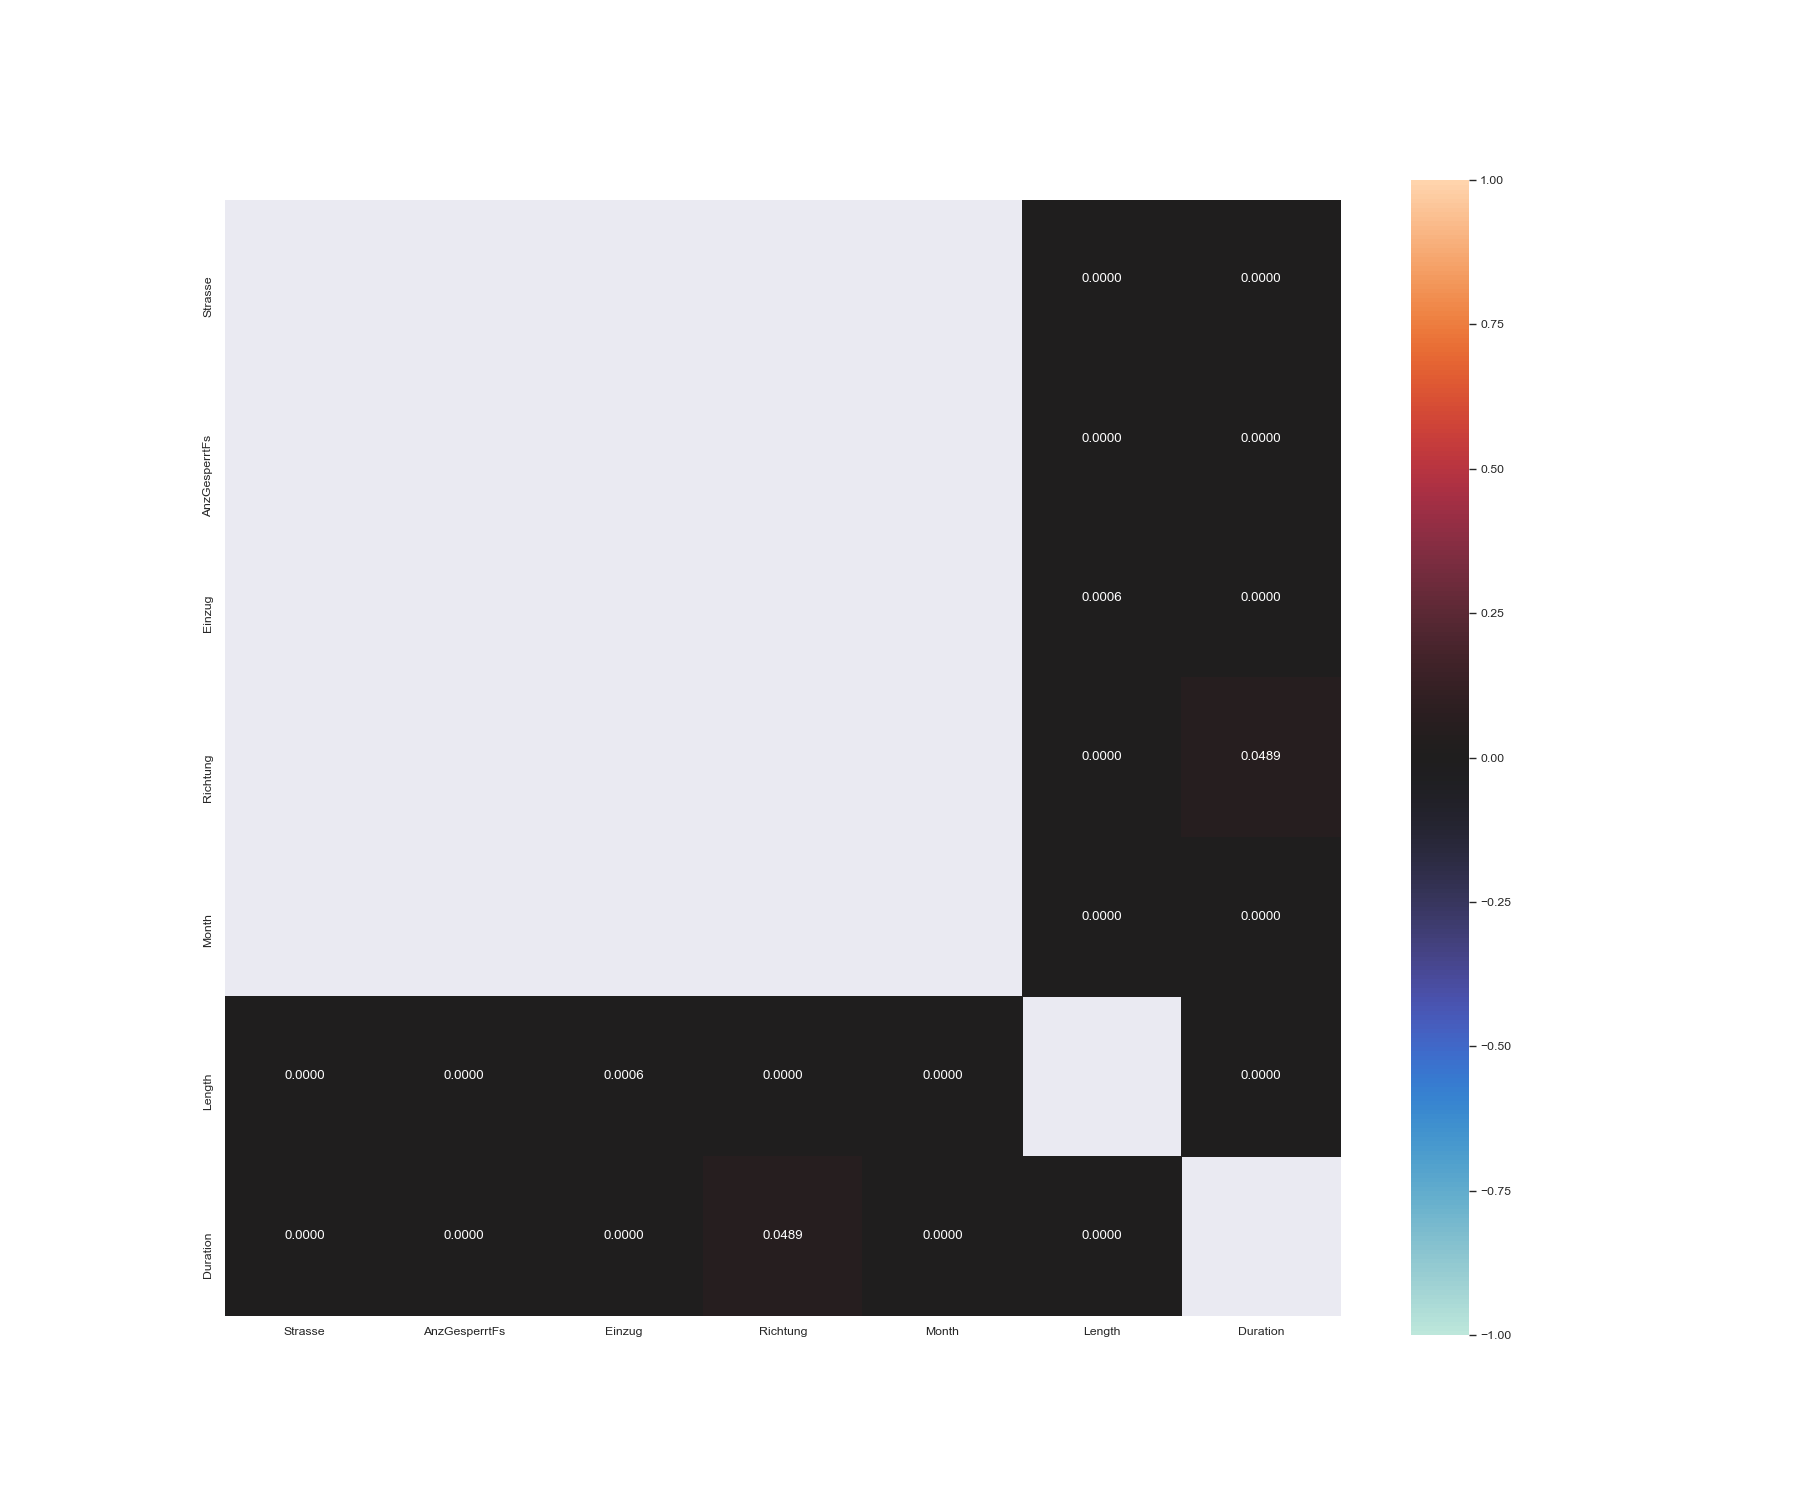
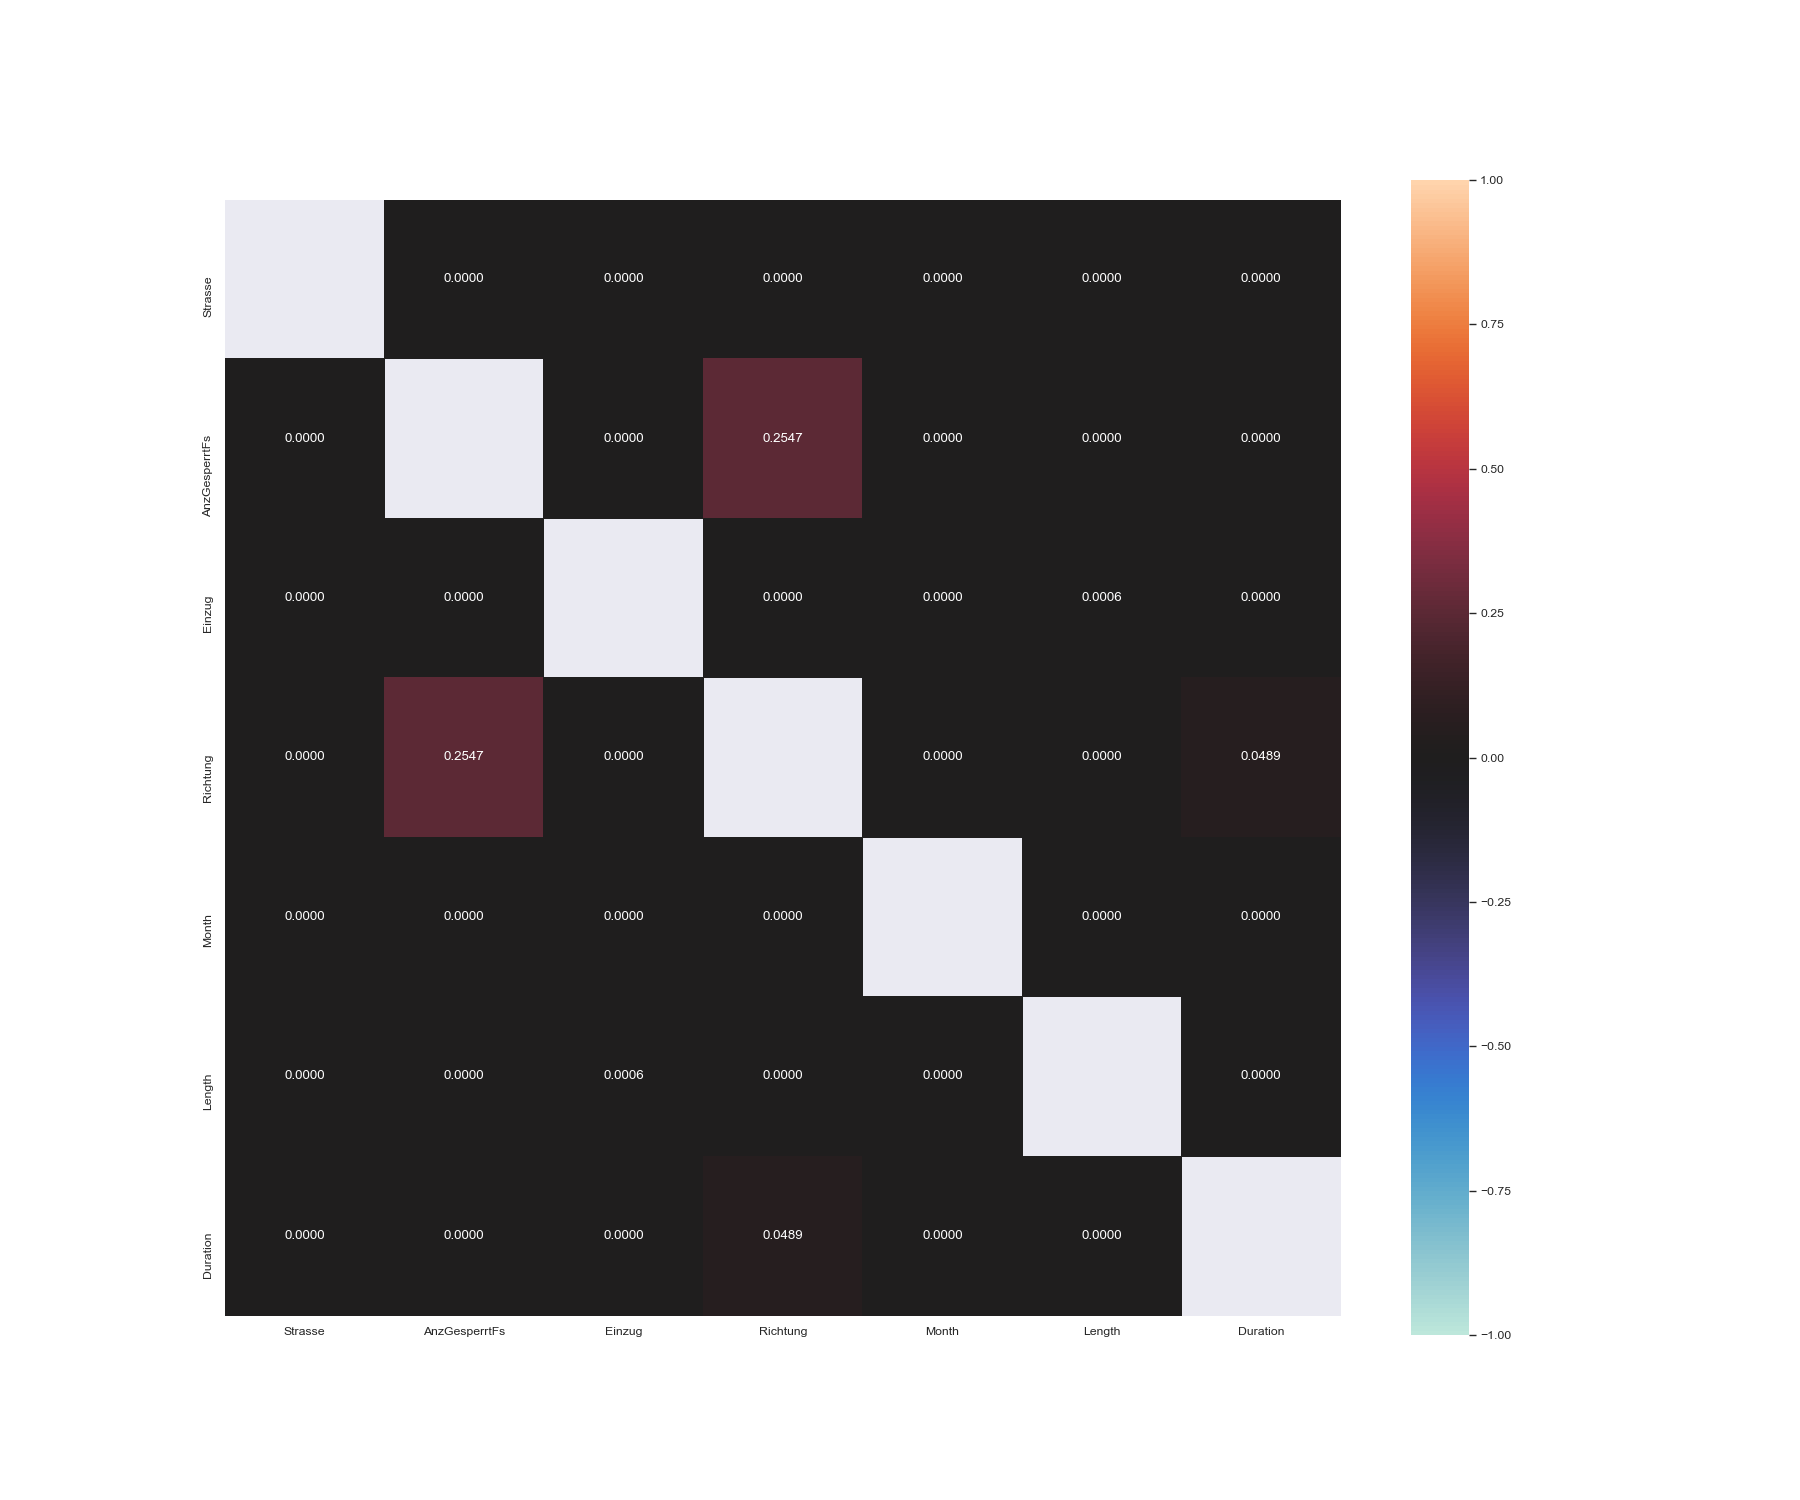
arbis now ith sognofocancy

Changed region(s): [[0.1244, 0.1227, 0.5911, 0.6747]]

diff --git a/CorrAnalysis/data/ArbIS/dataset/latex/arbis_dataset_sign_cramers.tex b/CorrAnalysis/data/ArbIS/dataset/latex/arbis_dataset_sign_cramers.tex
@@ -2,12 +2,12 @@
 \toprule
 {} &  Strasse &  AnzGesperrtFs &  Einzug &  Richtung &  Month &  Length &  Duration \\
 \midrule
-Strasse       &      NaN &            NaN &     NaN &       NaN &    NaN &  0.0000 &    0.0000 \\
-AnzGesperrtFs &      NaN &            NaN &     NaN &       NaN &    NaN &  0.0000 &    0.0000 \\
-Einzug        &      NaN &            NaN &     NaN &       NaN &    NaN &  0.0006 &    0.0000 \\
-Richtung      &      NaN &            NaN &     NaN &       NaN &    NaN &  0.0000 &    0.0489 \\
-Month         &      NaN &            NaN &     NaN &       NaN &    NaN &  0.0000 &    0.0000 \\
-Length        &      0.0 &            0.0 &  0.0006 &    0.0000 &    0.0 &     NaN &    0.0000 \\
-Duration      &      0.0 &            0.0 &  0.0000 &    0.0489 &    0.0 &  0.0000 &       NaN \\
+Strasse       &      NaN &         0.0000 &  0.0000 &    0.0000 &    0.0 &  0.0000 &    0.0000 \\
+AnzGesperrtFs &      0.0 &            NaN &  0.0000 &    0.2547 &    0.0 &  0.0000 &    0.0000 \\
+Einzug        &      0.0 &         0.0000 &     NaN &    0.0000 &    0.0 &  0.0006 &    0.0000 \\
+Richtung      &      0.0 &         0.2547 &  0.0000 &       NaN &    0.0 &  0.0000 &    0.0489 \\
+Month         &      0.0 &         0.0000 &  0.0000 &    0.0000 &    NaN &  0.0000 &    0.0000 \\
+Length        &      0.0 &         0.0000 &  0.0006 &    0.0000 &    0.0 &     NaN &    0.0000 \\
+Duration      &      0.0 &         0.0000 &  0.0000 &    0.0489 &    0.0 &  0.0000 &       NaN \\
 \bottomrule
 \end{tabular}

diff --git a/CorrAnalysis/data/ArbIS/dataset/latex/arbis_dataset_sign_theils.tex b/CorrAnalysis/data/ArbIS/dataset/latex/arbis_dataset_sign_theils.tex
@@ -2,12 +2,12 @@
 \toprule
 {} &  Strasse &  AnzGesperrtFs &  Einzug &  Richtung &  Month &  Length &  Duration \\
 \midrule
-Strasse       &      NaN &            NaN &     NaN &       NaN &    NaN &  0.0000 &    0.0000 \\
-AnzGesperrtFs &      NaN &            NaN &     NaN &       NaN &    NaN &  0.0000 &    0.0000 \\
-Einzug        &      NaN &            NaN &     NaN &       NaN &    NaN &  0.0006 &    0.0000 \\
-Richtung      &      NaN &            NaN &     NaN &       NaN &    NaN &  0.0000 &    0.0489 \\
-Month         &      NaN &            NaN &     NaN &       NaN &    NaN &  0.0000 &    0.0000 \\
-Length        &      0.0 &            0.0 &  0.0006 &    0.0000 &    0.0 &     NaN &    0.0000 \\
-Duration      &      0.0 &            0.0 &  0.0000 &    0.0489 &    0.0 &  0.0000 &       NaN \\
+Strasse       &      NaN &         0.0000 &  0.0000 &    0.0000 &    0.0 &  0.0000 &    0.0000 \\
+AnzGesperrtFs &      0.0 &            NaN &  0.0000 &    0.2547 &    0.0 &  0.0000 &    0.0000 \\
+Einzug        &      0.0 &         0.0000 &     NaN &    0.0000 &    0.0 &  0.0006 &    0.0000 \\
+Richtung      &      0.0 &         0.2547 &  0.0000 &       NaN &    0.0 &  0.0000 &    0.0489 \\
+Month         &      0.0 &         0.0000 &  0.0000 &    0.0000 &    NaN &  0.0000 &    0.0000 \\
+Length        &      0.0 &         0.0000 &  0.0006 &    0.0000 &    0.0 &     NaN &    0.0000 \\
+Duration      &      0.0 &         0.0000 &  0.0000 &    0.0489 &    0.0 &  0.0000 &       NaN \\
 \bottomrule
 \end{tabular}
